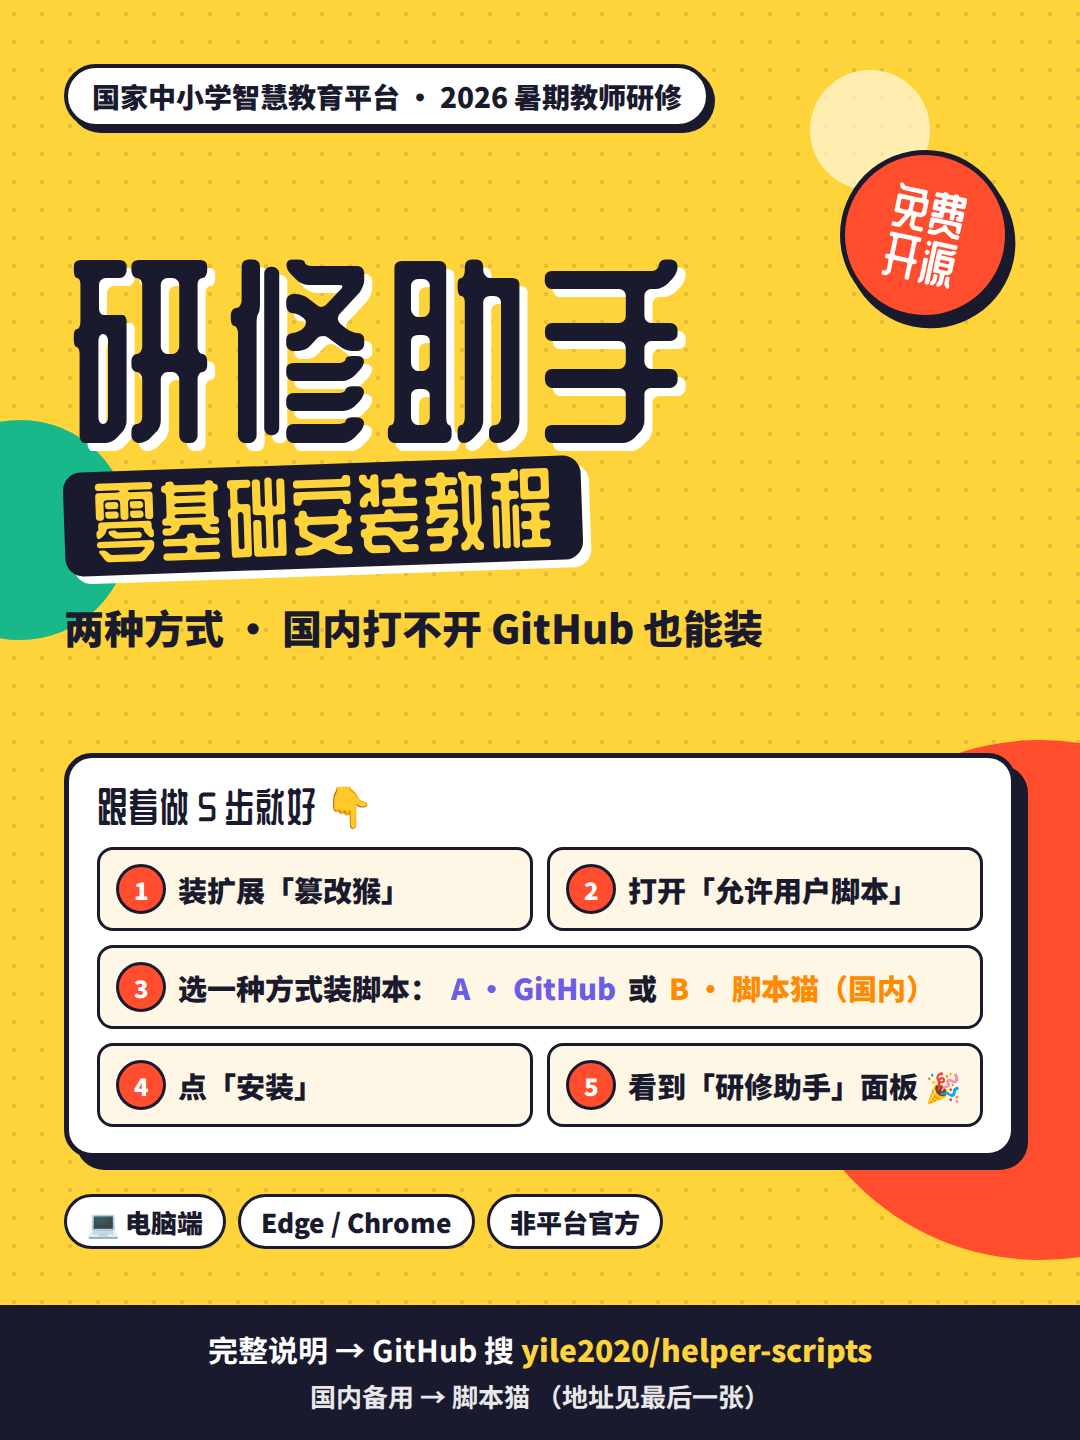
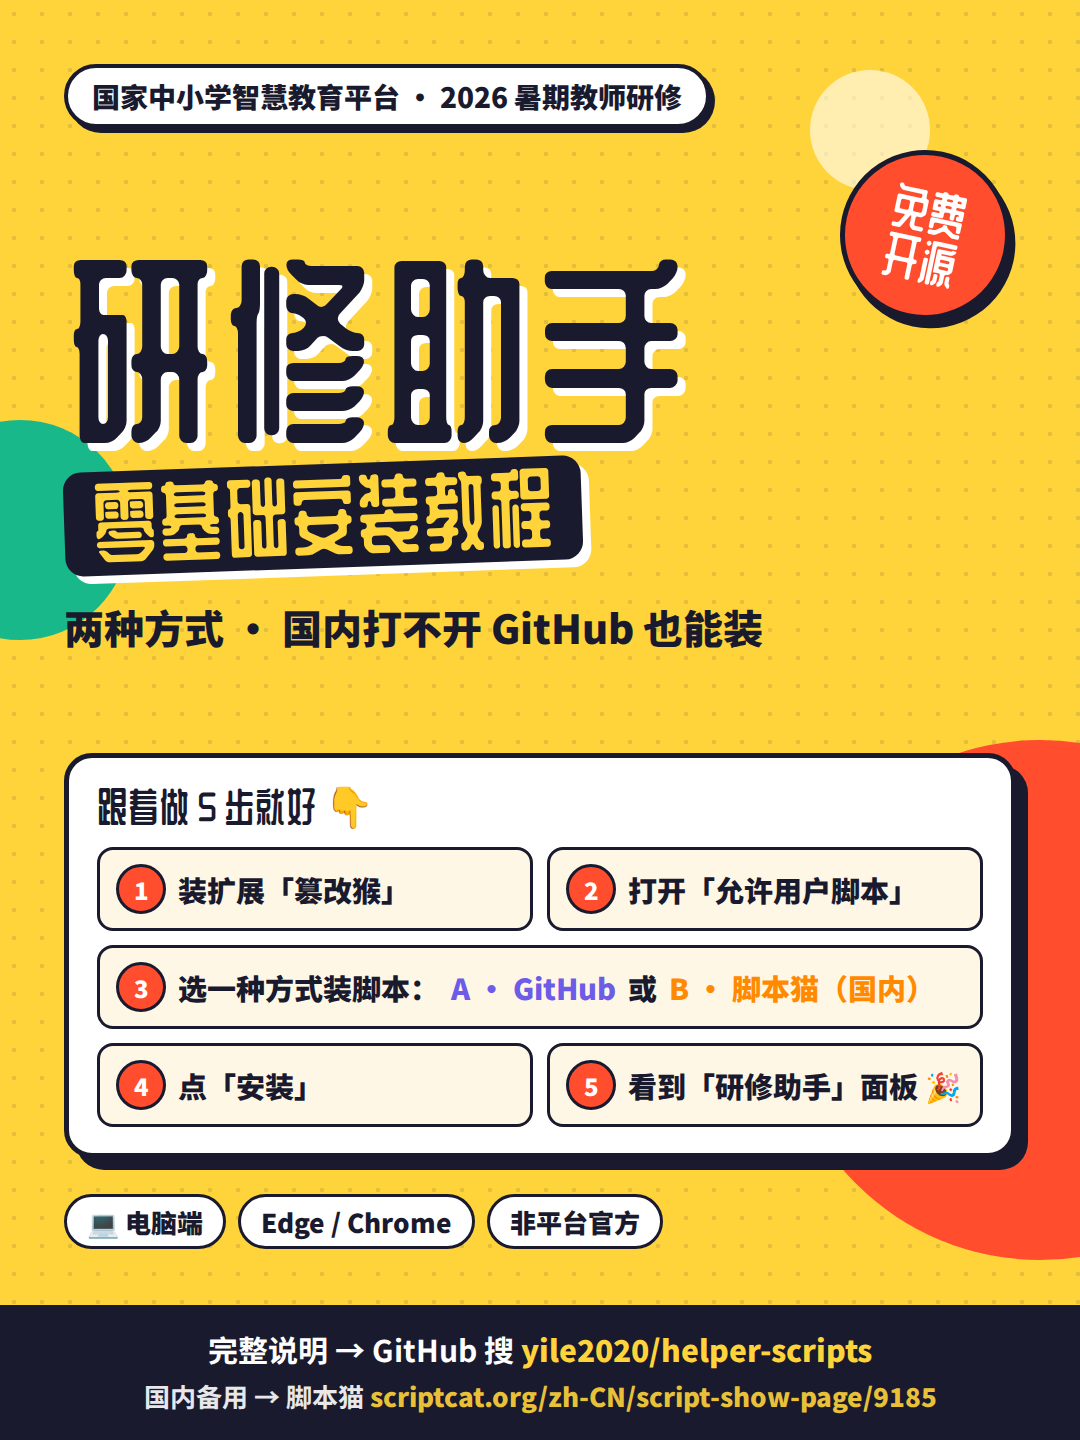
promo: 填入脚本猫地址 script-show-page/9185 —— 研修助手已用 yile2020 发布到脚本猫（审核中），图 1、8、11 和正文、置顶评论换成真实地址，render.cjs 默认带上地址和作者；长地址不换行；发布说明记下发布时填的内容和审核状态

Changed region(s): [[0.1222, 0.9375, 0.8556, 1.0]]

diff --git a/promo/xhs-post-copy.md b/promo/xhs-post-copy.md
@@ -3,7 +3,7 @@
 > 配图：同目录 `图01-封面.png` … `图11-排查与地址.png`，按编号顺序上传。
 > 教程包含**两种安装方式**：A · GitHub（能打开 GitHub 的）、B · 脚本猫（国内备用）。
 > 带橙色「待替换」框或「发布后补」字样的图，要先补上实拍截图或脚本猫地址再发（见文末清单）。
-> 文中 `〔脚本猫地址〕` 在脚本猫发布并实测通过后，换成脚本页地址（形如 `scriptcat.org/zh-CN/script-show-page/编号`）。
+> 脚本猫地址已填入：scriptcat.org/zh-CN/script-show-page/9185（2026-11-21 发布，**审核中**；审核通过、能正常安装后再发小红书）。
 
 ---
 
@@ -35,7 +35,7 @@
 
 📥 再选一种方式装脚本（装一个就行）
 🅰 GitHub（图 7）：打开 github.com/yile2020/helper-scripts，往下找到「2026 暑期教师研修自动连播助手」，点「👉 点击安装」
-🅱 脚本猫 · 国内备用（图 8）：GitHub 打不开的，直接打开 〔脚本猫地址〕 点安装。别在脚本猫站内搜，同类脚本很多，容易装错
+🅱 脚本猫 · 国内备用（图 8）：GitHub 打不开的，直接打开 scriptcat.org/zh-CN/script-show-page/9185 点安装。别在脚本猫站内搜，同类脚本很多，容易装错
 
 ✅ 然后都一样（图 9–10）
 ③ 篡改猴弹出安装页，核对脚本名后点「安装」
@@ -63,13 +63,13 @@
 
 📌 研修助手免费公开，两种方式装，选一个就行：
 🅰 GitHub：github.com/yile2020/helper-scripts，往下找「⭐ 2026 暑期教师研修自动连播助手」点「👉 点击安装」
-🅱 国内备用（GitHub 打不开的）：脚本猫 〔脚本猫地址〕，直接打开，别在站内搜，同类脚本多容易装错
+🅱 国内备用（GitHub 打不开的）：脚本猫 scriptcat.org/zh-CN/script-show-page/9185，直接打开，别在站内搜，同类脚本多容易装错
 都要先在电脑上装好篡改猴、打开「允许用户脚本」，一步步的图文看我主页《两种方式装研修助手｜国内也能装》
 个人维护，不是平台官方工具；脚本不收费，看到有人卖的别买。卡在哪一步直接回复这条。
 
 **短版**（长评论被折叠时用）
 
-📌 研修助手免费：GitHub 搜 yile2020/helper-scripts；打不开就用脚本猫 〔脚本猫地址〕。个人维护，非官方，别买。
+📌 研修助手免费：GitHub 搜 yile2020/helper-scripts；打不开就用脚本猫 scriptcat.org/zh-CN/script-show-page/9185。个人维护，非官方，别买。
 
 ---
 
@@ -84,10 +84,10 @@
 | 05 Edge 允许用户脚本 | ⚠ 缺 1 张 | 拍 `edge://extensions` 里的开关 → `shots/06-edge-extensions.png`；**开关名称如果和图上文字不一样，要改 `src/render.cjs`** |
 | 06 Chrome 允许用户脚本 | ⚠ 缺 1 张 | 同上 → `shots/07-chrome-extensions.png` |
 | 07 方式 A · GitHub | ✅ 可用 | 实拍 GitHub 页面 |
-| 08 方式 B · 脚本猫 | ⚠ 缺地址 + 1 张 | 脚本猫发布后：设置 `SCRIPTCAT_URL`；拍脚本猫上的研修助手页面 → `shots/08b-scriptcat-page.png` |
+| 08 方式 B · 脚本猫 | ⚠ 缺 1 张 | 地址已填（9185）。**审核通过后**拍脚本猫上的研修助手页面 → `shots/08b-scriptcat-page.png` |
 | 09 确认安装 | ⚠ 缺 1 张 | 篡改猴的脚本安装页 → `shots/08-tm-install.png` |
 | 10 检查面板 | ⚠ 缺 1 张 | 研修页面 + 研修助手面板（打码）→ `shots/09-panel.png` |
-| 11 排查与地址 | ⚠ 缺地址 | 设置 `SCRIPTCAT_URL` 后自动填入 |
+| 11 排查与地址 | ✅ 可用 | 两个地址都已填入 |
 
 截图放进 `promo/shots/` 后重新生成全部图片。拿到脚本猫地址后带上它；脚本猫作者名也可以一起填进图 8：
 

diff --git a/promo/scriptcat/脚本猫发布说明.md b/promo/scriptcat/脚本猫发布说明.md
@@ -1,5 +1,8 @@
 # 研修助手 · 脚本猫（ScriptCat）发布说明
 
+> **状态（2026-11-21）**：已用 yile2020 账号发布，脚本页 https://scriptcat.org/zh-CN/script-show-page/9185 ，**审核中**。页面提示「该脚本正在审核中，普通用户暂时无法访问」，所以安装链接暂时返回 404。审核进度看脚本猫「管理日志」。审核通过后，还要完成下面第三节的核对（特别是从脚本猫安装后的更新地址）。
+> 发布时填的内容：代码 = `scriptcat/smartedu-2026-basic.user.js`；详细说明 = 第四节文案；更新日志 = 「首次发布到脚本猫，作为国内备用安装入口；功能与 GitHub 版一致……」；分类下拉没有选项，留空；标签由脚本猫自动加了 #国家中小学智慧教育平台 #教师研修 #自动连播 #答题辅助。
+
 > 目的：给打不开 GitHub / raw.githubusercontent.com 的大陆用户一个国内安装入口。
 > GitHub 仍然是完整说明、源码和反馈的主入口；脚本猫只做「国内备用安装」。
 
